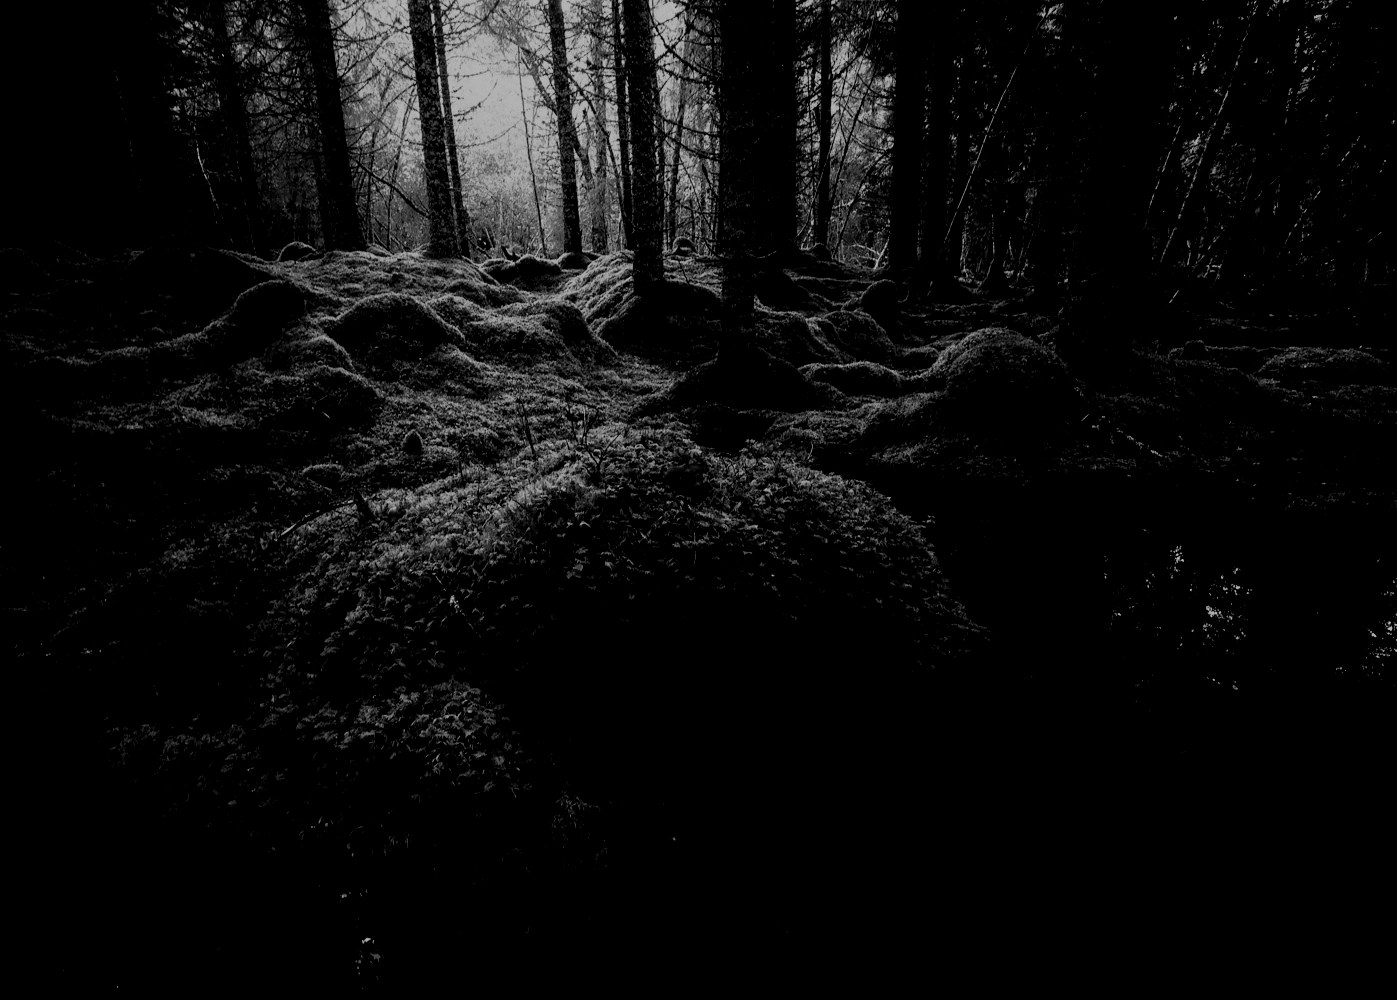
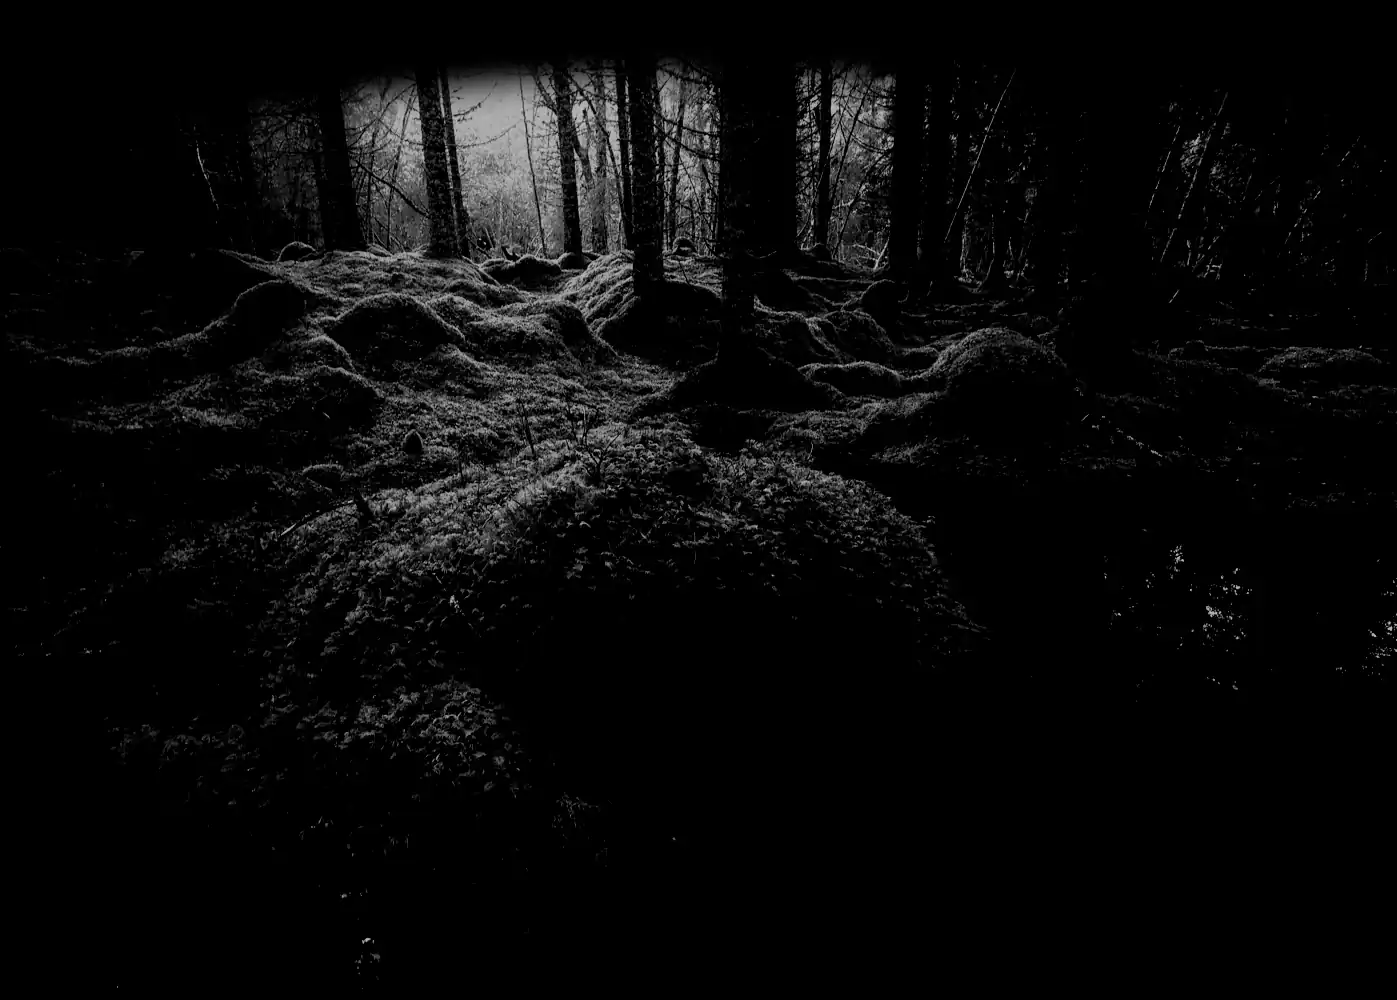
added style to homepage and background to base

diff --git a/assets/styles/app.scss b/assets/styles/app.scss
@@ -8,6 +8,7 @@ body {
 
 .bg-base-body {
     background-image: url('/assets/images/forest.webp');
+    background-position-y: 3rem;
 }
 
 h1 {
